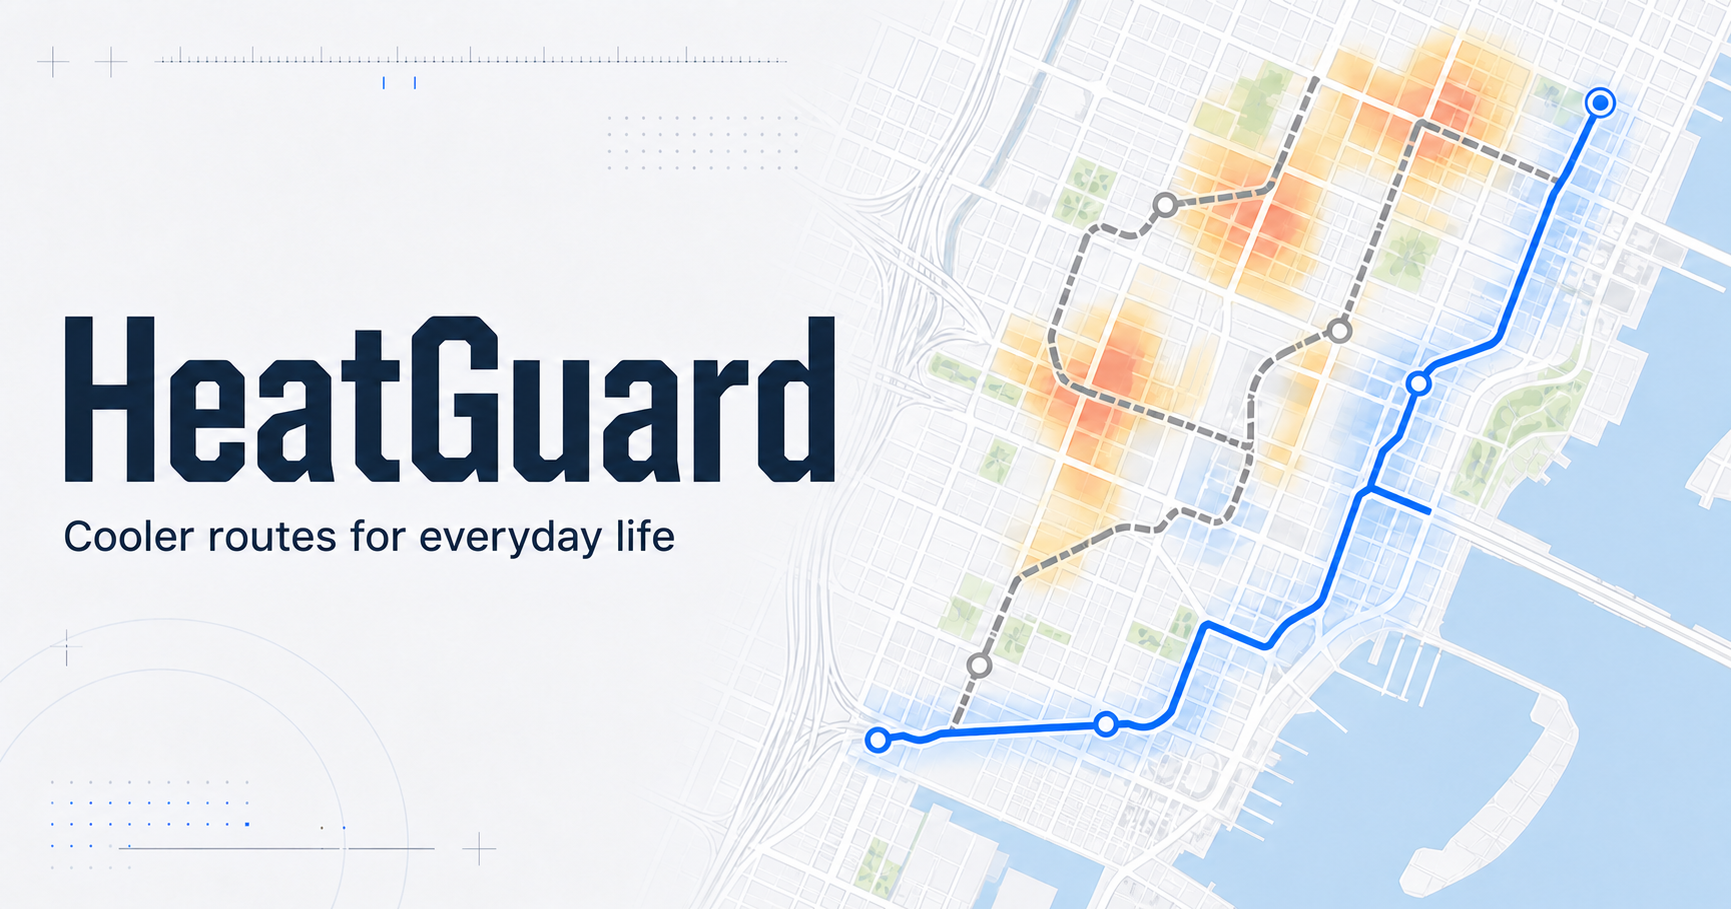
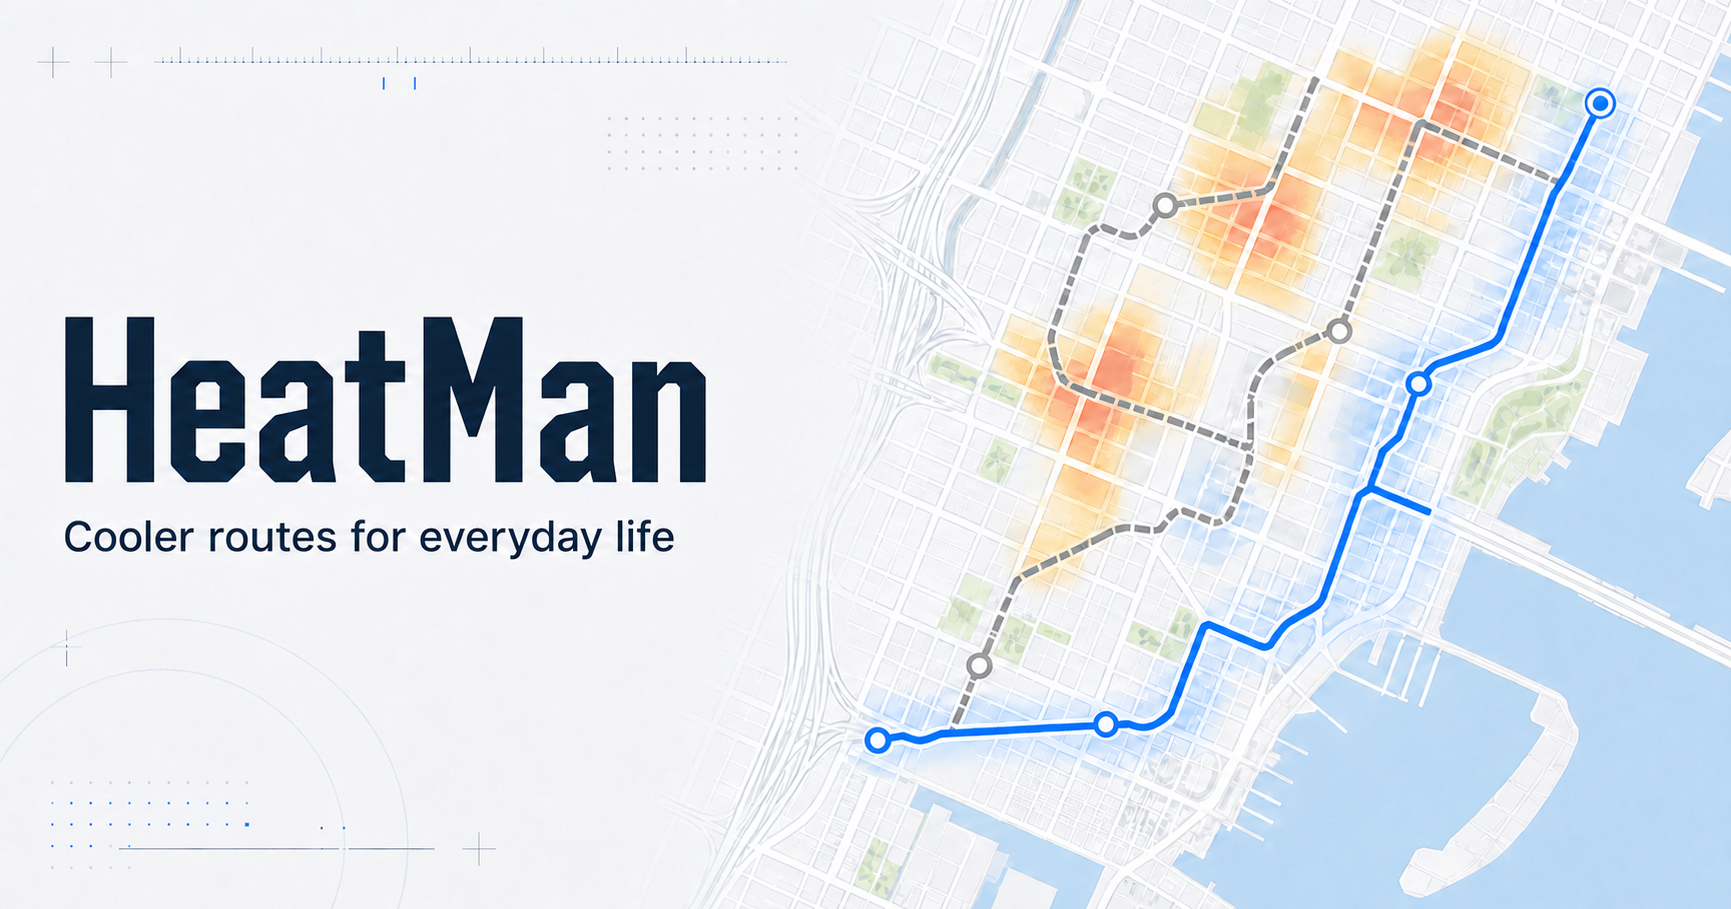
Rename HeatGuard to HeatMan

diff --git a/components/HeatManApp.tsx b/components/HeatManApp.tsx
@@ -1,7 +1,7 @@
 "use client";
 
 /*
-THESIS: HeatGuard starts with a normal outdoor trip and makes invisible street
+THESIS: HeatMan starts with a normal outdoor trip and makes invisible street
 heat actionable; it refuses weather-app city averages.
 OWN-WORLD: Preserve the cobalt operations workbench, ruled panels, thermal map,
 compact measurements, and direct safety language.
@@ -77,7 +77,7 @@ const INITIAL_AGENT_MESSAGE: AgentMessage = {
   action: "Selected Cool corridor",
 };
 
-export function HeatGuardApp() {
+export function HeatManApp() {
   const [surface, setSurface] = useState<"personal" | "teams">("personal");
   const initialHeat = useMemo(() => createDemoHeatPoints(), []);
   const [baseHeatPoints, setBaseHeatPoints] =
@@ -276,7 +276,7 @@ export function HeatGuardApp() {
             features: [
               {
                 type: "Feature",
-                properties: { name: "HeatGuard Downtown Miami AOI" },
+                properties: { name: "HeatMan Downtown Miami AOI" },
                 geometry: {
                   type: "Polygon",
                   coordinates: [
@@ -521,17 +521,17 @@ export function HeatGuardApp() {
   }
 
   return (
-    <div className="heatguard-shell">
+    <div className="heatman-shell">
       <header className="topbar">
         <a
           href={surface === "teams" ? "#command-center" : "#workspace"}
           className="wordmark"
-          aria-label="HeatGuard home"
+          aria-label="HeatMan home"
         >
-          <span className="wordmark__mark" aria-hidden="true">HG</span>
-          <span>HeatGuard</span>
+          <span className="wordmark__mark" aria-hidden="true">HM</span>
+          <span>HeatMan</span>
         </a>
-        <nav className="product-switch" aria-label="HeatGuard workspace">
+        <nav className="product-switch" aria-label="HeatMan workspace">
           <button
             type="button"
             className={surface === "personal" ? "is-active" : ""}
@@ -905,13 +905,13 @@ export function HeatGuardApp() {
         </aside>
       </main>
 
-      <section className="agent-dock" aria-label="HeatGuard agent">
+      <section className="agent-dock" aria-label="HeatMan agent">
         <div className="agent-dock__identity">
           <span className="agent-avatar" aria-hidden="true">
             <Bot size={18} />
           </span>
           <div>
-            <strong>HeatGuard agent</strong>
+            <strong>HeatMan agent</strong>
             <span>Route · timing · protection</span>
           </div>
         </div>
@@ -947,7 +947,7 @@ export function HeatGuardApp() {
 
       <footer className="status-footer">
         <p>
-          <span>HeatGuard MVP</span>
+          <span>HeatMan MVP</span>
           <span>
             Miami · {surface === "teams" ? "Teams operations" : "Personal trip"}
           </span>
@@ -1015,7 +1015,7 @@ async function geocodeLocation(query: string): Promise<GeocodeResult> {
   const payload = await response.json();
   if (!response.ok || payload.error) {
     throw new Error(
-      payload.message ?? `HeatGuard could not find “${query.trim()}”.`,
+      payload.message ?? `HeatMan could not find “${query.trim()}”.`,
     );
   }
   if (payload.configured === false) return { configured: false };
@@ -1026,7 +1026,7 @@ async function geocodeLocation(query: string): Promise<GeocodeResult> {
       (value: unknown) => typeof value === "number" && Number.isFinite(value),
     )
   ) {
-    throw new Error(`HeatGuard could not find “${query.trim()}”.`);
+    throw new Error(`HeatMan could not find “${query.trim()}”.`);
   }
   return {
     configured: true,

diff --git a/components/HeatMap.tsx b/components/HeatMap.tsx
@@ -99,14 +99,14 @@ export function HeatMap({
 
       map.on("load", () => {
         if (cancelled) return;
-        map.addSource("heatguard-heat", {
+        map.addSource("heatman-heat", {
           type: "geojson",
           data: initialHeatGeoJson.current,
         });
         map.addLayer({
-          id: "heatguard-heat",
+          id: "heatman-heat",
           type: "heatmap",
-          source: "heatguard-heat",
+          source: "heatman-heat",
           paint: {
             "heatmap-weight": ["get", "weight"],
             "heatmap-intensity": 0.9,
@@ -127,14 +127,14 @@ export function HeatMap({
             ],
           },
         });
-        map.addSource("heatguard-routes", {
+        map.addSource("heatman-routes", {
           type: "geojson",
           data: initialRouteGeoJson.current,
         });
         map.addLayer({
-          id: "heatguard-routes",
+          id: "heatman-routes",
           type: "line",
-          source: "heatguard-routes",
+          source: "heatman-routes",
           layout: { "line-cap": "round", "line-join": "round" },
           paint: {
             "line-color": ["case", ["get", "selected"], accent, rule],
@@ -142,14 +142,14 @@ export function HeatMap({
             "line-opacity": ["case", ["get", "selected"], 1, 0.72],
           },
         });
-        map.on("click", "heatguard-routes", (event) => {
+        map.on("click", "heatman-routes", (event) => {
           const routeId = event.features?.[0]?.properties?.id;
           if (typeof routeId === "string") selectRouteRef.current(routeId);
         });
-        map.on("mouseenter", "heatguard-routes", () => {
+        map.on("mouseenter", "heatman-routes", () => {
           map.getCanvas().style.cursor = "pointer";
         });
-        map.on("mouseleave", "heatguard-routes", () => {
+        map.on("mouseleave", "heatman-routes", () => {
           map.getCanvas().style.cursor = "";
         });
         setMapReady(true);
@@ -167,10 +167,10 @@ export function HeatMap({
   useEffect(() => {
     const map = mapRef.current;
     if (!mapReady || !map) return;
-    const routesSource = map.getSource("heatguard-routes") as
+    const routesSource = map.getSource("heatman-routes") as
       | mapboxgl.GeoJSONSource
       | undefined;
-    const heatSource = map.getSource("heatguard-heat") as
+    const heatSource = map.getSource("heatman-heat") as
       | mapboxgl.GeoJSONSource
       | undefined;
     routesSource?.setData(routeGeoJson);

diff --git a/components/DispatcherDashboard.tsx b/components/DispatcherDashboard.tsx
@@ -2,7 +2,7 @@
 
 /*
 THESIS: Fleet heat risk becomes a live dispatch queue, not a passive weather layer.
-OWN-WORLD: Inherit HeatGuard's cobalt workbench, ruled panels, compact data labels,
+OWN-WORLD: Inherit HeatMan's cobalt workbench, ruled panels, compact data labels,
 and street-map field with semantic risk colors.
 STORY: See who is exposed, understand why, intervene, then verify the fleet result.
 FIRST VIEWPORT: Fleet roster left, shared Miami map center, selected-rider action
@@ -172,7 +172,7 @@ export function DispatcherDashboard({
     const url = URL.createObjectURL(blob);
     const link = document.createElement("a");
     link.href = url;
-    link.download = "heatguard-miami-fleet-exposure.csv";
+    link.download = "heatman-miami-fleet-exposure.csv";
     link.click();
     URL.revokeObjectURL(url);
     addActivity("Daily fleet exposure report exported");

diff --git a/app/api/fortyguard/heatmap/route.ts b/app/api/fortyguard/heatmap/route.ts
@@ -8,7 +8,7 @@ export async function POST(request: Request) {
         configured: false,
         source: "demo",
         message:
-          "FortyGuard is not configured. HeatGuard is using a labeled Miami simulation.",
+          "FortyGuard is not configured. HeatMan is using a labeled Miami simulation.",
       },
       { status: 200 },
     );
@@ -35,4 +35,3 @@ export async function POST(request: Request) {
     },
   });
 }
-

diff --git a/app/layout.tsx b/app/layout.tsx
@@ -3,7 +3,7 @@ import { headers } from "next/headers";
 import type { ReactNode } from "react";
 import "./globals.css";
 
-const title = "HeatGuard — Cooler routes for everyday life";
+const title = "HeatMan — Cooler routes for everyday life";
 const description =
   "Plan cooler everyday trips with hyperlocal heat-aware routes, safer departure times, and personal protection guidance.";
 

diff --git a/app/api/routes/route.ts b/app/api/routes/route.ts
@@ -14,7 +14,7 @@ export async function POST(request: Request) {
         configured: false,
         source: "demo",
         message:
-          "Mapbox routing is not configured. HeatGuard is using seeded Miami route alternatives.",
+          "Mapbox routing is not configured. HeatMan is using seeded Miami route alternatives.",
       },
       { status: 200 },
     );

diff --git a/app/api/geocode/route.ts b/app/api/geocode/route.ts
@@ -6,7 +6,7 @@ export async function GET(request: Request) {
     return Response.json({
       configured: false,
       message:
-        "Mapbox address search is not configured. HeatGuard will keep the Miami sample route active.",
+        "Mapbox address search is not configured. HeatMan will keep the Miami sample route active.",
     });
   }
 

diff --git a/app/page.tsx b/app/page.tsx
@@ -1,6 +1,5 @@
-import { HeatGuardApp } from "@/components/HeatGuardApp";
+import { HeatManApp } from "@/components/HeatManApp";
 
 export default function Home() {
-  return <HeatGuardApp />;
+  return <HeatManApp />;
 }
-

diff --git a/app/globals.css b/app/globals.css
@@ -90,7 +90,7 @@ a {
   white-space: nowrap;
 }
 
-.heatguard-shell {
+.heatman-shell {
   min-height: 100dvh;
   background: var(--color-paper);
 }

diff --git a/PRODUCT.md b/PRODUCT.md
@@ -16,7 +16,7 @@ when heat risk rises.
 
 ## Product Purpose
 
-HeatGuard turns street-level temperature intelligence into practical routing and
+HeatMan turns street-level temperature intelligence into practical routing and
 heat-safety decisions. Everyday users get cooler route options, safer departure
 times, exposure estimates, and hydration or rest guidance. Teams get a
 fleet-wide operating view and can alert, reroute, or reschedule riders.
@@ -24,13 +24,13 @@ fleet-wide operating view and can alert, reroute, or reschedule riders.
 ## Positioning
 
 Unlike weather and routing products that treat a city as one temperature field,
-HeatGuard scores candidate routes against FortyGuard's 2-meter temperature data
+HeatMan scores candidate routes against FortyGuard's 2-meter temperature data
 and cumulative exposure.
 
 ## Operating Context
 
 The flagship journey starts with a person choosing an everyday destination and
-travel mode. HeatGuard compares Mapbox alternatives, selects the coolest safe
+travel mode. HeatMan compares Mapbox alternatives, selects the coolest safe
 path, estimates cumulative exposure, compares departure times, and recommends
 hydration or rest breaks. The Teams view monitors multiple active riders on one
 Miami map.
@@ -51,7 +51,7 @@ Miami map.
 
 ## Brand Commitments
 
-The product name is HeatGuard. The interface is a practical operations
+The product name is HeatMan. The interface is a practical operations
 workbench: direct, calm, and specific about risk without using alarmist copy.
 
 ## Evidence on Hand

diff --git a/README.md b/README.md
@@ -1,9 +1,10 @@
-# HeatGuard Agent
+# HeatMan
 
-HeatGuard is a heat-aware delivery workbench for Miami riders. It compares
-Mapbox walking/cycling alternatives against FortyGuard temperature tiles,
-scores cumulative exposure, selects the coolest safe route, and turns the
-result into concrete hydration, rest, and dispatch actions.
+HeatMan is a heat-aware navigation and safety system for everyday outdoor trips
+and outdoor teams in Miami. It compares Mapbox walking/cycling alternatives
+against FortyGuard temperature tiles, scores cumulative exposure, selects the
+coolest safe route, and turns the result into concrete hydration, rest, timing,
+alert, and dispatch actions.
 
 The app remains fully interactive without credentials by using a clearly
 labeled Miami simulation. Adding API keys switches routing and heat retrieval
@@ -14,10 +15,10 @@ to the live providers.
 - Mapbox multi-route cycling and walking alternatives
 - FortyGuard asynchronous heatmap submission and result polling
 - Thermal-cost route scoring in °C·min
-- Rider risk model using exposure, load, shift duration, hydration, and
+- Personal risk model using exposure, heat sensitivity, hydration, and
   acclimatization
 - Cool-route recommendation with a bounded detour
-- Hydration/rest plan and dispatch heat-alert control
+- Hydration/rest plan, personal heat alerts, and Teams dispatch controls
 - Natural-language route agent that takes actions
 - Current, +1 hour, and +3 hour micro-hotspot projections
 - Cooling-stop recommendations
